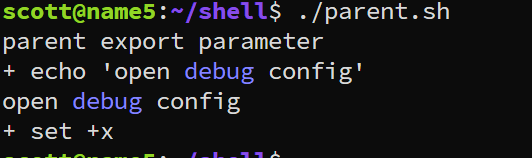
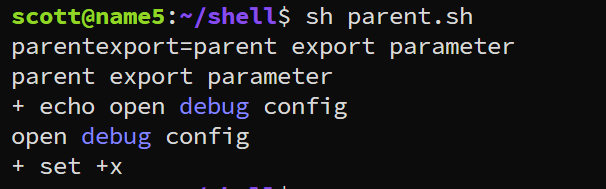
shell set feature

diff --git a/docs/linux/shell/5-shell-set.md b/docs/linux/shell/5-shell-set.md
@@ -39,6 +39,8 @@ set +x
 
 # call parent parameter
 
+env | grep parentexport
+
 echo $parentexport
 ```
 ![](./images/set/setx.png)
